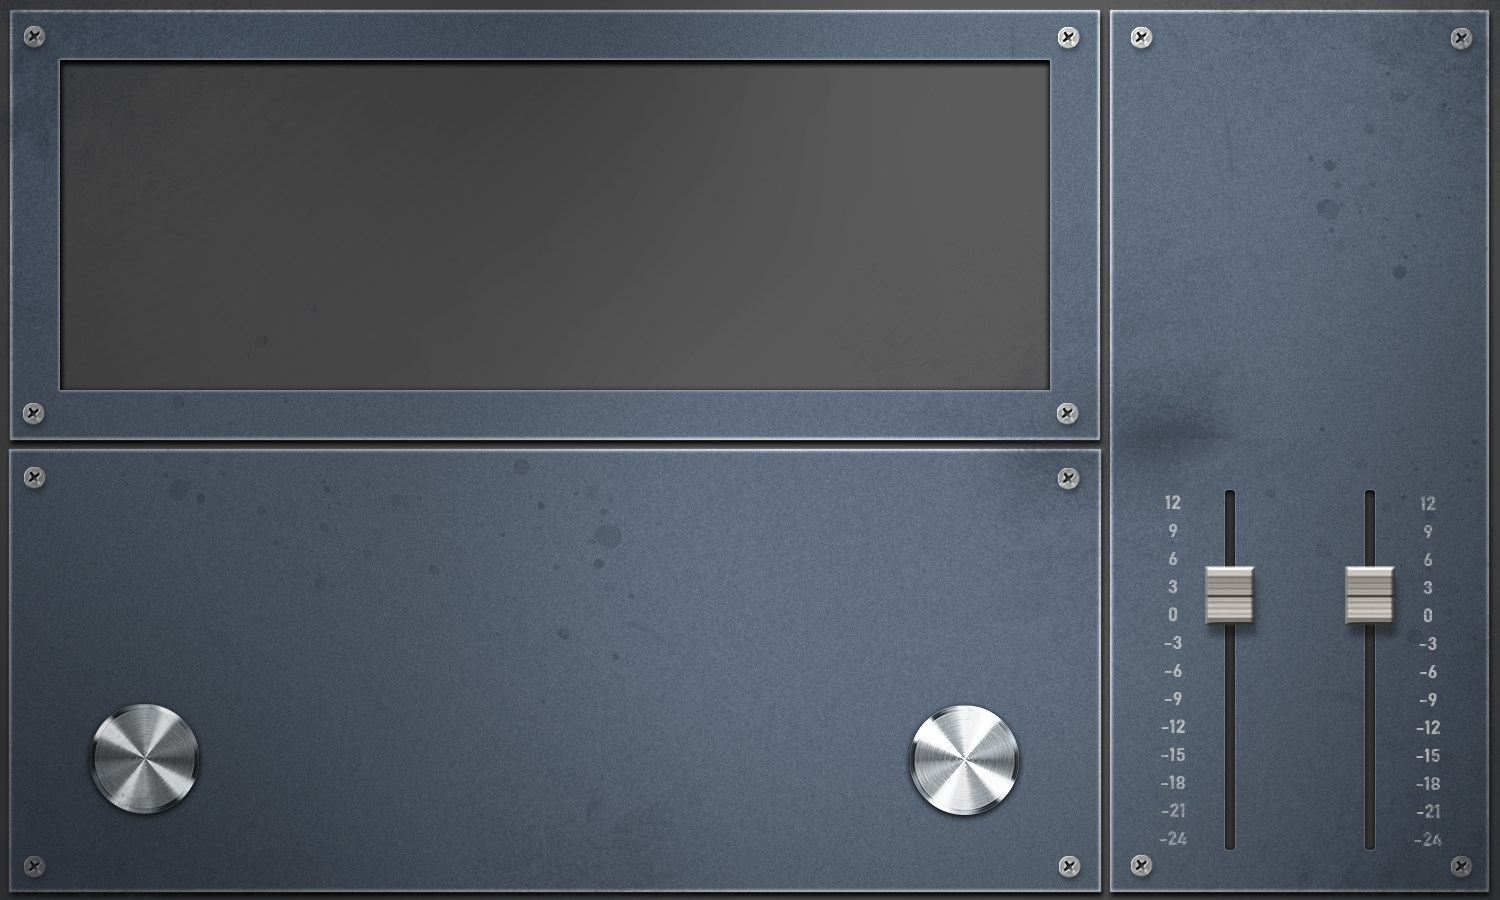
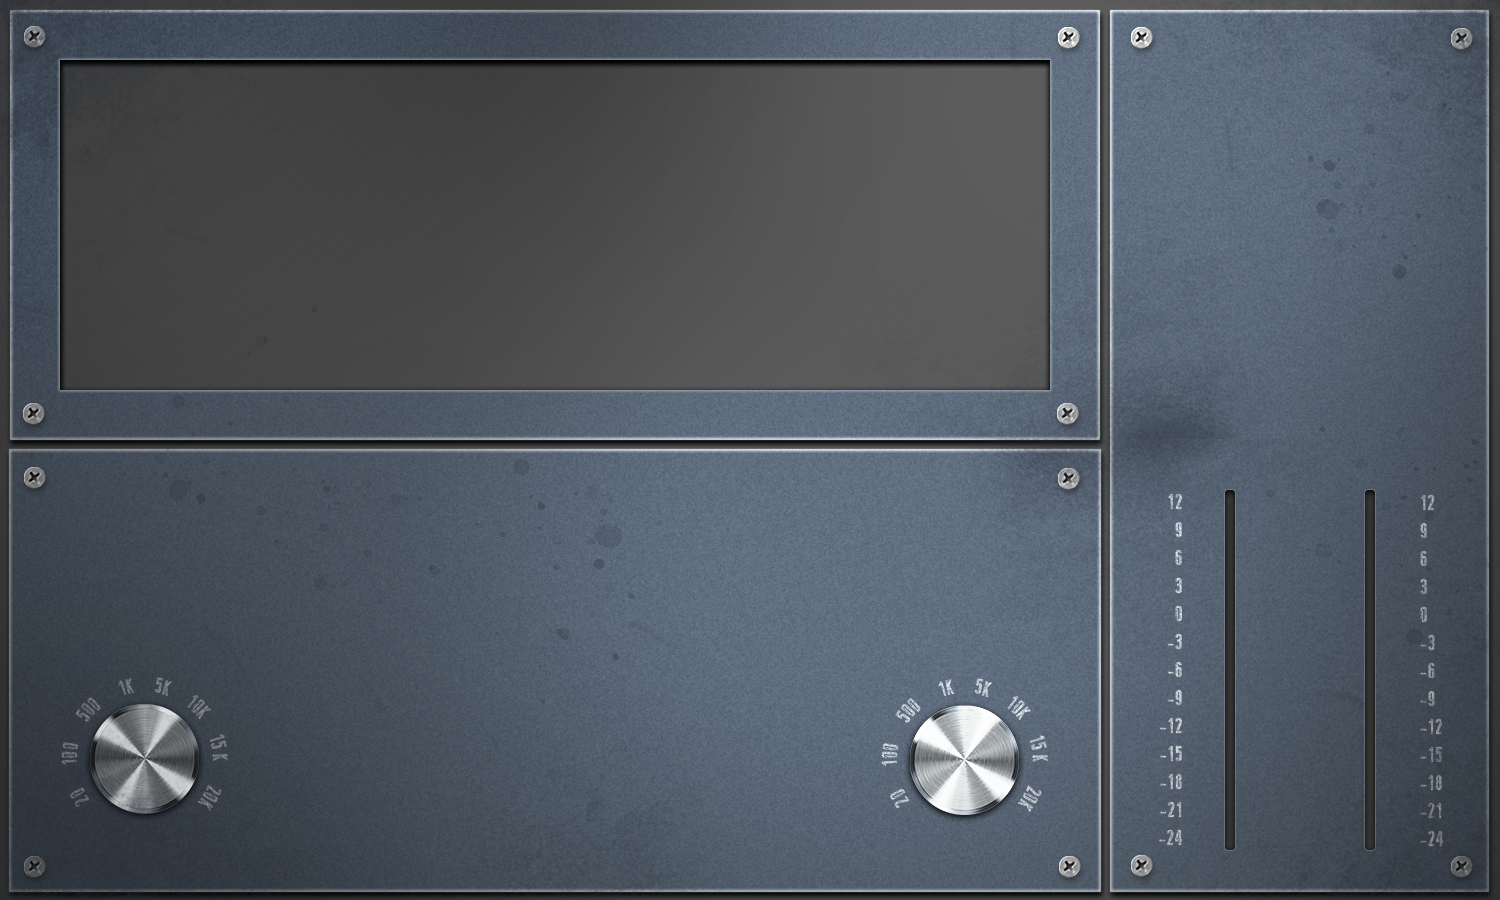
faders 90%

diff --git a/Equalizer/Source/PluginEditor.cpp b/Equalizer/Source/PluginEditor.cpp
@@ -9,6 +9,7 @@
 #include "PluginProcessor.h"
 #include "PluginEditor.h"
 #include "CustomLookAndFeel.h"
+#include "testLAF.h"
 
 //==============================================================================
 EqualizerAudioProcessorEditor::EqualizerAudioProcessorEditor (EqualizerAudioProcessor& p)
@@ -16,9 +17,6 @@ EqualizerAudioProcessorEditor::EqualizerAudioProcessorEditor (EqualizerAudioProc
 {
     // Make sure that before the constructor has finished, you've set the
     // editor's size to whatever you need it to be.
-
-    //Adding custom lookandfeel class
-    CustomLookAndFeel customLookAndFeel;
 
     /********************************************************
      *
@@ -35,6 +33,7 @@ EqualizerAudioProcessorEditor::EqualizerAudioProcessorEditor (EqualizerAudioProc
     //Setting custom lookandfeel
     inputGainFader.setLookAndFeel(&customLookAndFeel);
 
+
     /********************************************************
      *
      *   Adding and setting the OUTPUT VOLUME slider
@@ -48,7 +47,7 @@ EqualizerAudioProcessorEditor::EqualizerAudioProcessorEditor (EqualizerAudioProc
         std::make_unique<juce::AudioProcessorValueTreeState::SliderAttachment>
         (audioProcessor.treeState, "output_gain", outputGainFader);
     //Setting custom lookandfeel
-    //outputGainFader.setLookAndFeel(&customLookAndFeel);
+    outputGainFader.setLookAndFeel(&customLookAndFeel);
 
     /********************************************************
      *
@@ -56,10 +55,11 @@ EqualizerAudioProcessorEditor::EqualizerAudioProcessorEditor (EqualizerAudioProc
      *
      *********************************************************/
     addAndMakeVisible(hipassFrequency);
-    hipassFrequency.setSliderStyle(juce::Slider::SliderStyle::Rotary);
+    hipassFrequency.setSliderStyle(juce::Slider::SliderStyle::RotaryVerticalDrag);
     hipassFrequency.setTextBoxStyle(juce::Slider::TextEntryBoxPosition::NoTextBox, true, 0, 0);
     hipassFrequency.setRange(20, 20000, 1);
     hipassFrequency.setDoubleClickReturnValue(true, 20);
+    hipassFrequency.setLookAndFeel(&customLookAndFeel);
     hipassFrequencyAtch =
         std::make_unique<juce::AudioProcessorValueTreeState::SliderAttachment>
         (audioProcessor.treeState, "hipass_freq", hipassFrequency);
@@ -70,7 +70,7 @@ EqualizerAudioProcessorEditor::EqualizerAudioProcessorEditor (EqualizerAudioProc
      *
      *********************************************************/
     addAndMakeVisible(lopassFrequency);
-    lopassFrequency.setSliderStyle(juce::Slider::SliderStyle::Rotary);
+    lopassFrequency.setSliderStyle(juce::Slider::SliderStyle::RotaryVerticalDrag);
     lopassFrequency.setTextBoxStyle(juce::Slider::TextEntryBoxPosition::NoTextBox, true, 0, 0);
     lopassFrequency.setRange(20, 20000, 1);
     lopassFrequency.setDoubleClickReturnValue(true, 20000.0);
@@ -139,11 +139,7 @@ void EqualizerAudioProcessorEditor::resized()
     POSIZIONI KNOBS
     LOPASS 
     
-    */
-
-    /* Input and output faders */
-    inputGainFader.setBounds (610 * 2, 245 * 2, 10 * 2, 181 * 2);
-    outputGainFader.setBounds (680 * 2, 245 * 2, 10 * 2, 181 * 2);
+    */;
 
     /* Dimensions variables */
     int knobWidth = 150;
@@ -153,9 +149,19 @@ void EqualizerAudioProcessorEditor::resized()
     int spacingBKnobs = 250;
     int lopasshipassY = 695;
     int lopasshipassWidth = 135;
-    int lopassX = 80;
-    int hipassX = 900;
+    int lopassX = 900;
+    int hipassX = 80;
+    int fadersWidth = 80;
+    int fadersHeight = 362;
+    int fadersImageOffset = 4;
+    float fadersScaleFactor = 1.5;
+    int inputGainFaderX = 1230;
+    int outputGainFaderX = 1370;
+    int inoutGainFaderY = 490;
 
+    /* Input and output faders */
+    inputGainFader.setBounds(inputGainFaderX - fadersWidth * fadersScaleFactor + fadersImageOffset, inoutGainFaderY, fadersWidth * 2, fadersHeight);
+    outputGainFader.setBounds(outputGainFaderX - fadersWidth * fadersScaleFactor + fadersImageOffset, inoutGainFaderY, fadersWidth * 2, fadersHeight);
 
     lopassFrequency.setBounds(lopassX, lopasshipassY, lopasshipassWidth, lopasshipassWidth);
     hipassFrequency.setBounds(hipassX, lopasshipassY, lopasshipassWidth, lopasshipassWidth);

diff --git a/Equalizer/Source/CustomLookAndFeel.cpp b/Equalizer/Source/CustomLookAndFeel.cpp
@@ -18,20 +18,26 @@ CustomLookAndFeel::CustomLookAndFeel()
     lhKnobImage = juce::ImageCache::getFromMemory(BinaryData::KNOB_ROTARY_png, BinaryData::KNOB_ROTARY_pngSize);
 }
 
+CustomLookAndFeel::~CustomLookAndFeel()
+{
+}
+
 void CustomLookAndFeel::drawLinearSlider(juce::Graphics& g, int x, int y, int width, int height,
      float sliderPos, float minSliderPos, float maxSliderPos,
      const juce::Slider::SliderStyle style, juce::Slider& slider)
 {
+    /**************
+    * DEBUG COLORS
+    ***************/
+    //g.setColour(juce::Colours::blue);
+    //g.fillRect(x, y, width, height);
+
     // Dimensioni e posizione dell'immagine/*
     const int imageWidth = faderImage.getWidth();
     const int imageHeight = faderImage.getHeight();
 
     const int imageX = x + (width - imageWidth) / 2;
     const int imageY = sliderPos - (imageHeight / 2);
-
-    // Evita il clipping per permettere al thumb di essere disegnato fuori dai confini dello slider
-    //g.setColour(juce::Colours::transparentBlack); // Non disegna nulla nel clipping
-    //g.reduceClipRegion(slider.getX() - imageWidth, slider.getY() - imageWidth, imageWidth * 2, imageHeight * 2);
 
     // Disegna l'immagine
     g.drawImage(faderImage, imageX, imageY, imageWidth, imageHeight, 0, 0, imageWidth, imageHeight);
@@ -41,7 +47,52 @@ void CustomLookAndFeel::drawRotarySlider(juce::Graphics& g, int x, int y, int wi
     float sliderPos, float rotaryStartAngle, float rotaryEndAngle,
     juce::Slider& slider)
 {
-    slider.setTextBoxStyle(juce::Slider::TextEntryBoxPosition::NoTextBox, true, 0, 0);
+    /**************
+    * DEBUG COLORS
+    ***************/
+    //g.setColour(juce::Colours::blue);
+    //g.fillRect(x, y, width, height);
+
+    const int imageWidth = lhKnobImage.getWidth();
+    const int imageHeight = lhKnobImage.getHeight();
+
+    g.drawImage(lhKnobImage, x, y, imageWidth, imageHeight, 0, 0, imageWidth, imageHeight);
+}   
+
+void CustomLookAndFeel::drawLabel(juce::Graphics& g, juce::Label& label)
+{
+    /*
+    g.setColour(juce::Colour(juce::uint8(255), 255, 255, 1.0f));
+    g.fillRoundedRectangle(label.getLocalBounds().toFloat(), 3.0f);
+
+
+    if (!label.isBeingEdited())
+    {
+        auto alpha = label.isEnabled() ? 1.0f : 0.5f;
+        const juce::Font font(getLabelFont(label));
+
+        g.setColour(juce::Colour(juce::uint8(0), 0, 0, 1.0f));
+        g.setFont(font);
+
+        auto textArea = getLabelBorderSize(label).subtractedFrom(label.getLocalBounds());
+
+        g.drawFittedText(label.getText(), textArea, label.getJustificationType(),
+            juce::jmax(1, (int)(textArea.getHeight() / font.getHeight())),
+            label.getMinimumHorizontalScale());
+
+        g.setColour(juce::Colour(juce::uint8(255), 255, 255, 0.1f));
+    }
+    else if (label.isEnabled())
+    {
+        g.setColour(label.findColour(juce::Label::outlineColourId));
+    }
+    */
+
+    //g.fillRoundedRectangle(label.getLocalBounds().toFloat(), 3.0f);
+}
+
+/*
+slider.setTextBoxStyle(juce::Slider::TextEntryBoxPosition::NoTextBox, true, 0, 0);
     // Dimensioni e posizione dell'immagine/*
     const int imageWidth = lhKnobImage.getWidth();
     const int imageHeight = lhKnobImage.getHeight();
@@ -55,5 +106,4 @@ void CustomLookAndFeel::drawRotarySlider(juce::Graphics& g, int x, int y, int wi
 
     // Disegna l'immagine
     g.drawImage(lhKnobImage, imageX, imageY, imageWidth, imageHeight, 0, 0, imageWidth, imageHeight);
-
-}
+ */

diff --git a/Equalizer/Source/testLAF.cpp b/Equalizer/Source/testLAF.cpp
@@ -1,0 +1,31 @@
+/*
+  ==============================================================================
+
+    testLAF.cpp
+    Created: 6 Nov 2024 1:48:52am
+    Author:  Dev
+
+  ==============================================================================
+*/
+
+#include <JuceHeader.h>
+#include "testLAF.h"
+
+//==============================================================================
+testLAF::testLAF()
+{
+    // In your constructor, you should add any child components, and
+    // initialise any special settings that your component needs.
+
+}
+
+testLAF::~testLAF()
+{
+}
+
+void testLAF::drawLinearSlider(juce::Graphics& g, int x, int y, int width, int height,
+    float sliderPos, float minSliderPos, float maxSliderPos,
+    const juce::Slider::SliderStyle, juce::Slider& slider)
+{
+    g.setColour(juce::Colours::red);
+}

diff --git a/Equalizer/Source/testLAF.h b/Equalizer/Source/testLAF.h
@@ -1,0 +1,30 @@
+/*
+  ==============================================================================
+
+    testLAF.h
+    Created: 6 Nov 2024 1:48:52am
+    Author:  Dev
+
+  ==============================================================================
+*/
+
+#pragma once
+
+#include <JuceHeader.h>
+
+//==============================================================================
+/*
+*/
+class testLAF : public juce::LookAndFeel_V4
+{
+public:
+    testLAF();
+    ~testLAF() override;
+
+    void drawLinearSlider(juce::Graphics& g, int x, int y, int width, int height,
+        float sliderPos, float minSliderPos, float maxSliderPos,
+        const juce::Slider::SliderStyle, juce::Slider& slider) override;
+
+private:
+    JUCE_DECLARE_NON_COPYABLE_WITH_LEAK_DETECTOR (testLAF)
+};

diff --git a/Equalizer/Source/CustomLookAndFeel.h b/Equalizer/Source/CustomLookAndFeel.h
@@ -10,6 +10,7 @@
 
 #pragma once
 
+
 #include <JuceHeader.h>
 
 
@@ -17,6 +18,7 @@ class CustomLookAndFeel : public juce::LookAndFeel_V4
 {
 public:
     CustomLookAndFeel();
+    ~CustomLookAndFeel() override;
 
     void drawLinearSlider(juce::Graphics& g, int x, int y, int width, int height,
          float sliderPos, float minSliderPos, float maxSliderPos,
@@ -25,6 +27,8 @@ public:
     void drawRotarySlider(juce::Graphics& g, int x, int y, int width, int height,
          float sliderPos, float rotaryStartAngle, float rotaryEndAngle, 
          juce::Slider& slider) override;
+
+    void drawLabel(juce::Graphics& g, juce::Label& label) override;
 
 private:
     juce::Image faderImage;

diff --git a/Equalizer/Source/PluginEditor.h b/Equalizer/Source/PluginEditor.h
@@ -11,6 +11,7 @@
 #include <JuceHeader.h>
 #include "PluginProcessor.h"
 #include "CustomLookAndFeel.h"
+#include "testLAF.h"
 
 
 //==============================================================================
